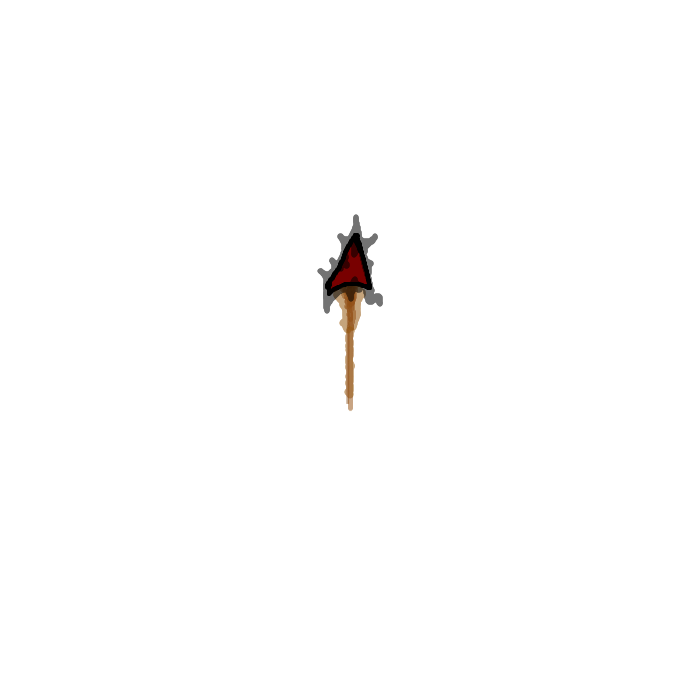
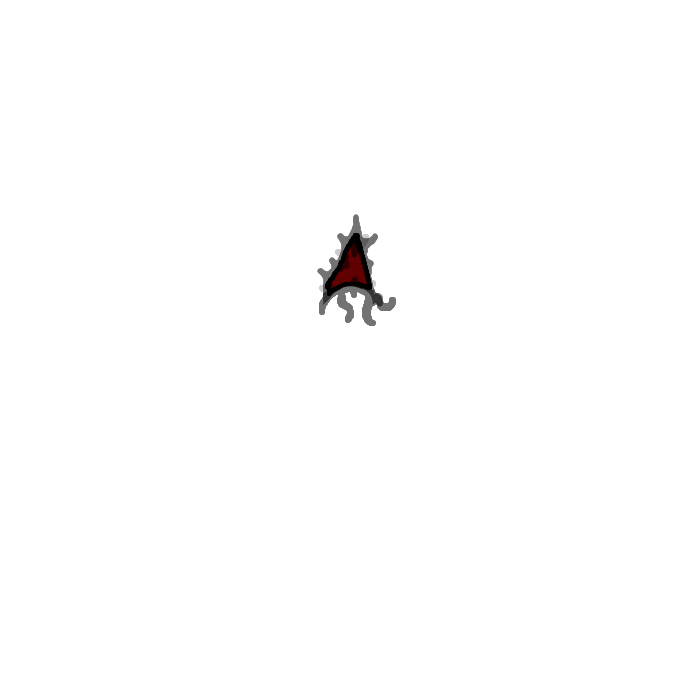
aguni

Changed region(s): [[0.45, 0.39, 0.57, 0.6]]

diff --git a/lib/bullets/devil_tooth.py b/lib/bullets/devil_tooth.py
@@ -1,0 +1,59 @@
+#Current Module
+from . import set_hitbox_bullet
+from . import DefaultBullet
+
+class   DevilTooth(DefaultBullet):
+    rapidity = 33
+    attack=20
+    from_player = True
+    name = "devil_tooth"
+
+    @classmethod
+    def build_class(cls, env, player, weapon):
+        cls.imgs = [env.mod.tools.set_imgs(env.img_folder + "bullets/", cls.name + '_left', player.dimensions), env.mod.tools.set_imgs(env.img_folder + "bullets/", cls.name, player.dimensions), env.mod.tools.set_imgs(env.img_folder + "bullets/", cls.name + '_right', player.dimensions) ]
+        cls.player = player
+        cls.weapon = weapon
+        return cls
+
+    def __init__(self, x, y, direction, style):
+        self.img = self.imgs[style]
+        self.img_night = self.img
+        super().__init__(x, y, direction)
+        self.hitbox = set_hitbox_bullet(self.env, self)
+        self.tools.move(self, self.direction)
+        self.style = style
+
+    def _target_hitted(self):
+        ret = False
+        for player in self.env.players:
+            if player is not self.player and player.affected(self):
+                player.hitted(attack = self.attack // 2 if self.from_player else self.attack)
+                ret = True
+        for monster in self.env.monsters:
+            if monster.affected(self):
+                id_nb, value = monster.hitted(attack=self.attack)
+                if id_nb is not None:
+                    self.player.score.kills[id_nb] += value
+                    if monster.lives <= 0:
+                        self.weapon.rage += 1
+                ret = True
+        return ret
+
+    def move(self):
+        self.tick = self.env.mod.tools.Tick()
+        while True:
+            if self.style == 1:
+                self.tools.move(self, self.direction)
+            elif self.style == 0:
+                self.tools.move(self, self.direction, int(self.rapidity * 0.85))
+                self.tools.move(self, (self.direction + 1) % 8, int(self.rapidity * 0.15), False)
+            elif self.style == 2:
+                self.tools.move(self, self.direction, int(self.rapidity * 0.85))
+                self.tools.move(self, (self.direction + 7) % 8, int(self.rapidity * 0.15), False)
+            if self._limits_reached():
+                return self._dead()
+            self.hitbox.update_coords(self)
+            if self._target_hitted():
+                return self._dead()
+            if self._quit():
+                return

diff --git a/lib/weapons/aguni.py b/lib/weapons/aguni.py
@@ -1,0 +1,68 @@
+from . import DefaultWeapon
+from threading import Thread
+
+class   Aguni(DefaultWeapon):
+    name = 'aguni'
+
+    def __init__(self, env, player):
+        self.tools = env.mod.tools
+
+        self.dimensions = player.dimensions
+
+        self.delay = 11
+        self.cooldown = 0
+        self.rage = 99
+        self.count = 0
+
+        self.img_calm = self.tools.set_imgs(env.img_folder + 'weapons/', self.name + '_calm', self.dimensions)
+        self.img_angry = self.tools.set_imgs(env.img_folder + 'weapons/', self.name + '_angry', self.dimensions)
+        self.img_enraged = self.tools.set_imgs(env.img_folder + 'weapons/', self.name + '_enraged', self.dimensions)
+        self.tooth = env.mod.bullets.Tooth.build_class(env, player, self)
+        self.devil_tooth = env.mod.bullets.DevilTooth.build_class(env, player, self)
+
+    def display(self, env, direction, x, y, fitting):
+        if self.rage < 5:
+            img = self.img_calm[direction]
+        elif self.rage < 9:
+            img = self.img_angry[direction]
+        else:
+            img = self.img_enraged[direction]
+        self.tools.display(env, img, x, y, fitting)
+
+    def bringOn(self):
+        self.rage += 1
+
+    def _greatShoot(self, env, player, bullet):
+        left = bullet(player.x, player.y, player.direction, 0)
+        obj = bullet(player.x, player.y, player.direction, 1)
+        right = bullet(player.x, player.y, player.direction, 2)
+        l = Thread(target=left.move, args=())
+        t = Thread(target=obj.move, args=())
+        r = Thread(target=right.move, args=())
+        l.daemon = True
+        t.daemon = True
+        r.daemon = True
+        env.bullets.append(left)
+        env.bullets.append(obj)
+        env.bullets.append(right)
+        l.start()
+        t.start()
+        r.start()
+
+    def pressed(self, env, player):
+        if self.cooldown:
+            return
+        self.cooldown = self.delay
+        if self.rage < 9:
+            self._shoot(env, player, self.tooth)
+        else:
+            if self.count < 2:
+                self.count += 1
+            else:
+                self.rage = 0
+                self.count = 0
+            self._greatShoot(env, player, self.devil_tooth) 
+
+    def update(self):
+        if self.cooldown:
+            self.cooldown -= 1

diff --git a/lib/bullets/tooth.py b/lib/bullets/tooth.py
@@ -1,0 +1,38 @@
+#Current Module
+from . import set_hitbox_bullet
+from . import DefaultBullet
+
+class   Tooth(DefaultBullet):
+    rapidity = 44
+    attack=20
+    from_player = True
+    name = "tooth"
+
+    @classmethod
+    def build_class(cls, env, player, weapon):
+        cls.img = env.mod.tools.set_imgs(env.img_folder + "bullets/", cls.name, player.dimensions)
+        cls.img_night = cls.img
+        cls.player = player
+        cls.weapon = weapon
+        return cls
+
+    def __init__(self, x, y, direction):
+        super().__init__(x, y, direction)
+        self.hitbox = set_hitbox_bullet(self.env, self)
+        self.tools.move(self, self.direction)
+
+    def _target_hitted(self):
+        ret = False
+        for player in self.env.players:
+            if player is not self.player and player.affected(self):
+                player.hitted(attack = self.attack // 2 if self.from_player else self.attack)
+                ret = True
+        for monster in self.env.monsters:
+            if monster.affected(self):
+                id_nb, value = monster.hitted(attack=self.attack)
+                if id_nb is not None:
+                    self.player.score.kills[id_nb] += value
+                    if monster.lives <= 0:
+                        self.weapon.rage += 1
+                ret = True
+        return ret

diff --git a/lib/tools/move.py b/lib/tools/move.py
@@ -1,8 +1,9 @@
 
-def move(obj, direction, rapidity=0):
+def move(obj, direction, rapidity=0, set_direction=True):
     if not rapidity:
         rapidity = obj.rapidity
-    obj.direction = direction
+    if set_direction:
+        obj.direction = direction
     if direction == 0:
         obj.y -= rapidity
     elif direction == 1:

diff --git a/lib/bullets/__init__.py b/lib/bullets/__init__.py
@@ -4,6 +4,8 @@ from .default import DefaultBullet
 from .explosion import Explosion
 from .bullet import Bullet
 from .arrow import Arrow
+from .tooth import Tooth
+from .devil_tooth import DevilTooth
 from .double_bullet import DoubleBullet
 from .hell_star import HellStar
 from .rocket import Rocket

diff --git a/lib/weapons/__init__.py b/lib/weapons/__init__.py
@@ -1,3 +1,4 @@
 from .default import DefaultWeapon
 from .submachine_gun import SubmachineGun
 from .crossbow import Crossbow
+from .aguni import Aguni
